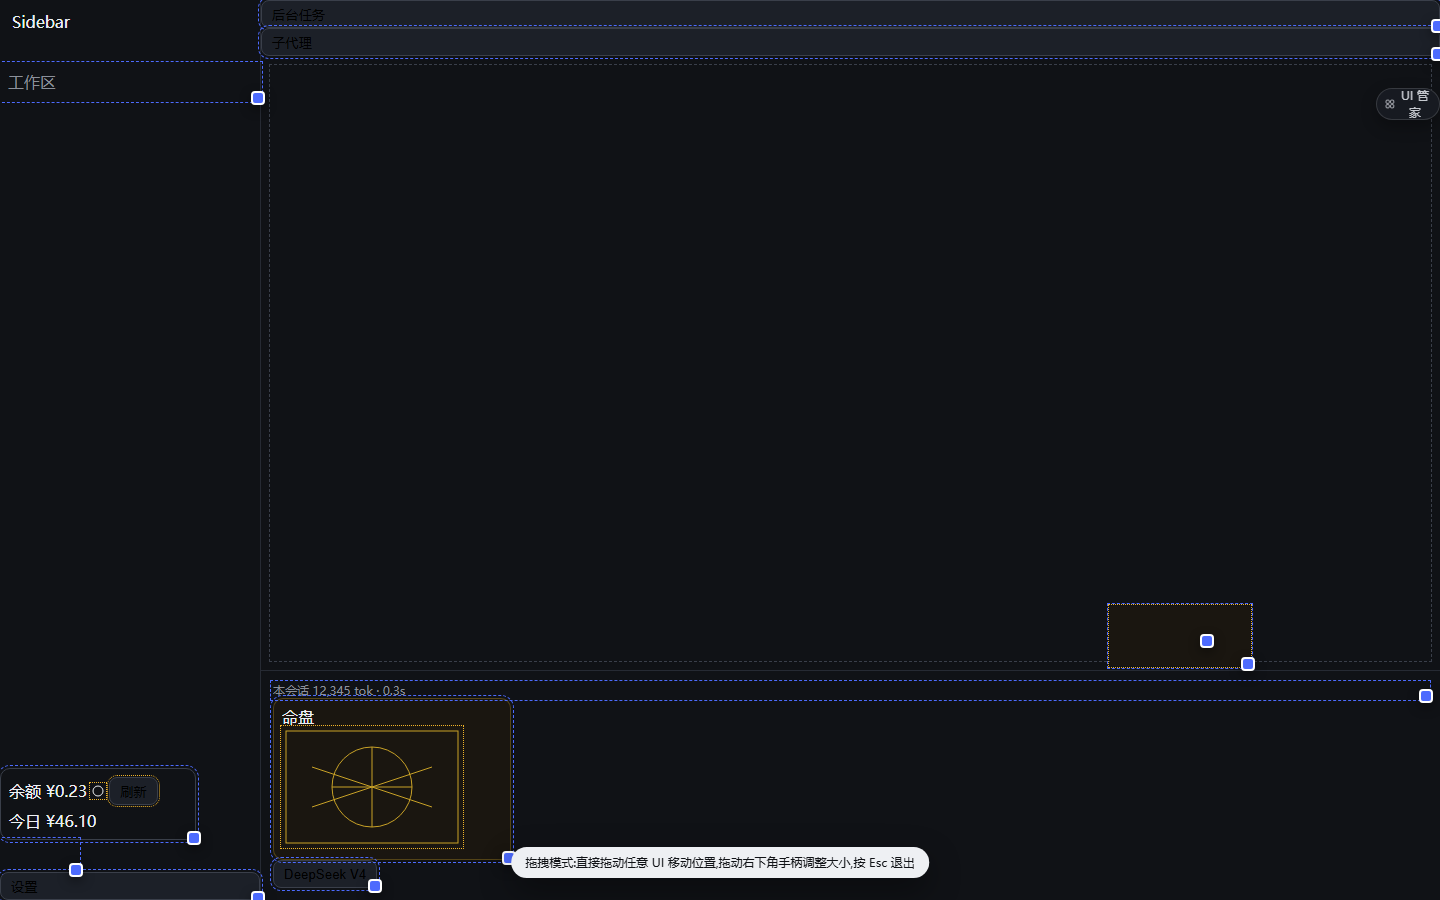
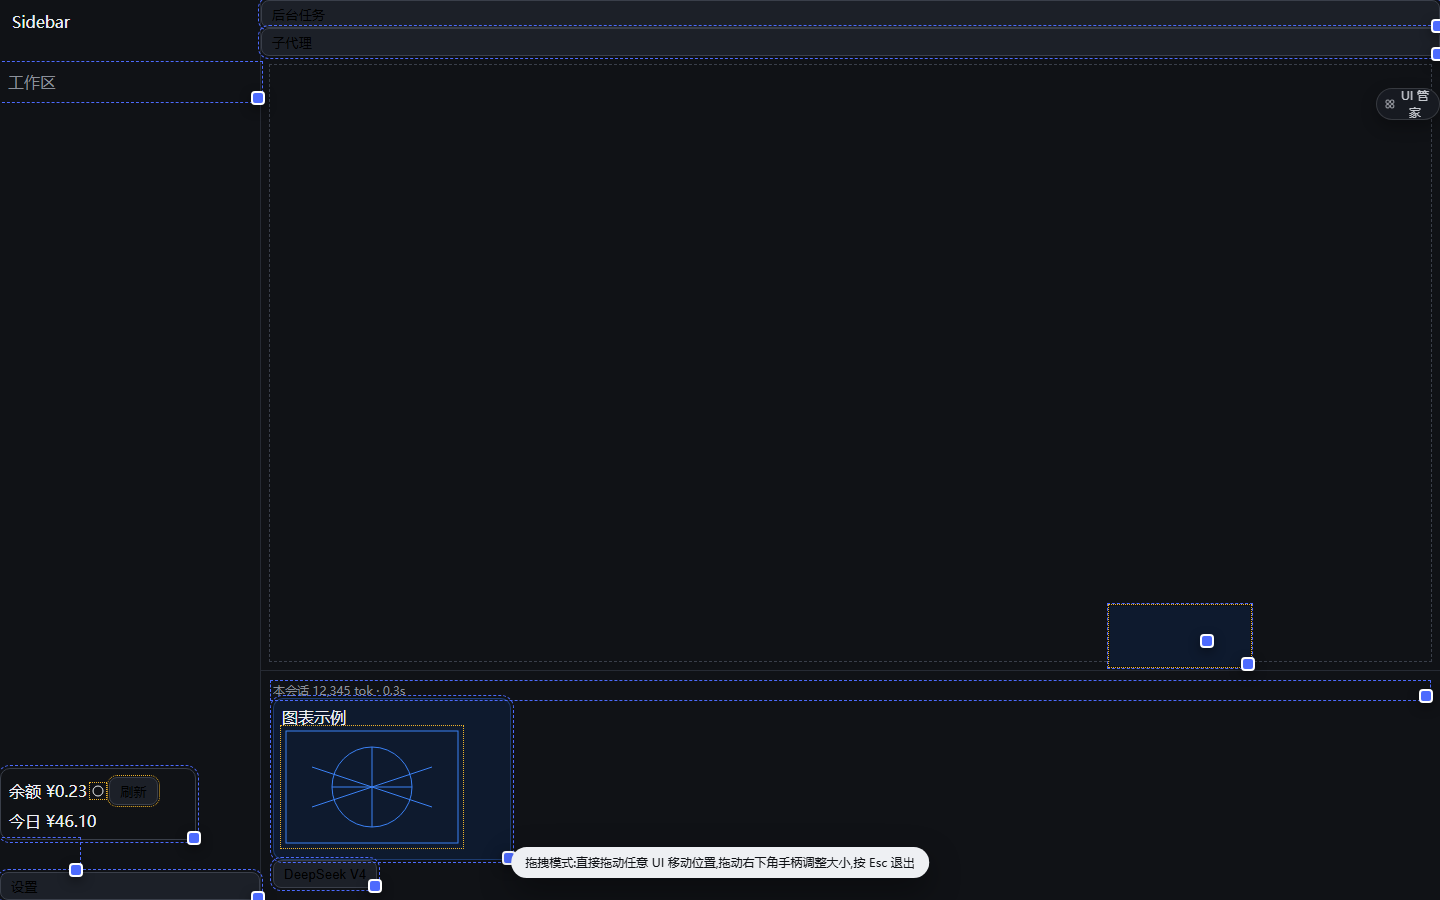
Regenerate showcase images: fix annotated screenshots, remove mingli demo widget

Changed region(s): [[0.1875, 0.7778, 0.375, 0.9644], [0.75, 0.6533, 0.875, 0.7467]]

diff --git a/test/mock.html b/test/mock.html
@@ -13,7 +13,7 @@
   .mock-button{display:inline-flex;align-items:center;gap:6px;height:28px;padding:0 10px;border:1px solid #3a3f4a;border-radius:8px;background:#1c2028}
   .cm-footer-stack{display:flex;flex-direction:column;gap:6px;width:178px;border:1px solid #3a3f4a;border-radius:10px;padding:8px}
   .cm-chip{display:inline-flex;gap:4px;align-items:center}
-  .mgl-chart{border:1px solid #c9a22755;border-radius:10px;padding:8px;background:#1a1610;width:220px}
+  .demo-chart{border:1px solid #3b82f655;border-radius:10px;padding:8px;background:#0e1a2e;width:220px}
   .stats-line{font-size:12px;color:#8b909a}
   [data-slot]{display:contents}
   #composer{border-top:1px solid #262a33;padding:12px}
@@ -58,13 +58,13 @@
     <div id="composer">
       <div data-slot="conversation.composer.dock">
         <div class="stats-line">本会话 12,345 tok · 0.3s</div>
-        <div class="mgl-chart" aria-label="命盘图表">
-          <div>命盘</div>
-          <svg width="180" height="120" viewBox="0 0 180 120" aria-label="命盘主图">
-            <rect x="4" y="4" width="172" height="112" fill="none" stroke="#c9a227"/>
-            <circle cx="90" cy="60" r="40" fill="none" stroke="#c9a227"/>
-            <path d="M90 20v80M50 60h80" stroke="#c9a227"/>
-            <path d="M30 40l120 40M30 80l120-40" stroke="#c9a227"/>
+        <div class="demo-chart" aria-label="示例图表">
+          <div>图表示例</div>
+          <svg width="180" height="120" viewBox="0 0 180 120" aria-label="图表主图">
+            <rect x="4" y="4" width="172" height="112" fill="none" stroke="#3b82f6"/>
+            <circle cx="90" cy="60" r="40" fill="none" stroke="#3b82f6"/>
+            <path d="M90 20v80M50 60h80" stroke="#3b82f6"/>
+            <path d="M30 40l120 40M30 80l120-40" stroke="#3b82f6"/>
           </svg>
         </div>
       </div>
@@ -76,8 +76,8 @@
   <button type="button" data-sticky-disclosure-control="" style="position:fixed;left:1128px;top:620px;z-index:15" class="dshSd_control">
     <span>全部收起</span><span>·2</span>
   </button>
-  <div data-dsh-mingli-widget="" style="position:fixed;left:1110px;top:606px;z-index:20" aria-label="命盘悬浮图">
-    <canvas width="140" height="60" style="display:block;background:#1a1610"></canvas>
+  <div data-demo-chart-widget="" style="position:fixed;left:1110px;top:606px;z-index:20" aria-label="图表悬浮图">
+    <canvas width="140" height="60" style="display:block;background:#0e1a2e"></canvas>
   </div>
 
 <script>

diff --git a/lib/client.js b/lib/client.js
@@ -58,7 +58,7 @@ window.__ModuleLoader__.load({
       "stickyDisclosure", "dshMingli", "mingli", "dshTaskboard", "taskboard",
       "dshSsh", "ssh", "cm", "costMeter", "dshLiveStats", "liveStats",
       "skinCenter", "gitGraph", "aion", "modlens", "modsearch", "notif",
-      "notification", "plugin", "pet",
+      "notification", "plugin", "pet", "demo",
     ];
 
     /** dataset prefix -> human plugin name (best-effort attribution). */

diff --git a/test/verify.py b/test/verify.py
@@ -80,7 +80,7 @@ def main():
         check("discovered slot roots", "slot:sidebar.footer.action@0" in keys and "slot:conversation.session.header.actions@0" in keys, str(keys))
         check("discovered composer dock chart", "slot:conversation.composer.dock@1" in keys, str(keys))
         check("discovered loose sticky pill", "loose:stickyDisclosureControl=1" in keys, str(keys))
-        check("discovered loose mingli widget", "loose:dshMingliWidget=1" in keys, str(keys))
+        check("discovered loose chart widget", "loose:demoChartWidget=1" in keys, str(keys))
         cost = next((r for r in roots if r["key"] == "slot:sidebar.footer.action@0"), None)
         check("cost meter root labelled", cost is not None and "今日费用" in cost["label"], str(cost))
         check("cost meter classified as plugin UI", cost is not None and cost["category"] == "plugin", str(cost))
@@ -124,16 +124,16 @@ def main():
 
         # --- 5. auto arrange --------------------------------------------------
         set_cfg("loose:stickyDisclosureControl=1", {"mode": "float", "x": 480, "y": 220})
-        set_cfg("loose:dshMingliWidget=1", {"mode": "float", "x": 500, "y": 230})
+        set_cfg("loose:demoChartWidget=1", {"mode": "float", "x": 500, "y": 230})
         page.wait_for_timeout(80)
         placed = eval_js("window.dshUiHub.arrange()")
         page.wait_for_timeout(350)
         sticky_rect = find("loose:stickyDisclosureControl=1")["rect"]
-        mingli_rect = find("loose:dshMingliWidget=1")["rect"]
-        ov = eval_js(overlap_js("loose:stickyDisclosureControl=1", "loose:dshMingliWidget=1"))
+        chart_rect = find("loose:demoChartWidget=1")["rect"]
+        ov = eval_js(overlap_js("loose:stickyDisclosureControl=1", "loose:demoChartWidget=1"))
         check("auto arrange moved items", placed >= 2, str(placed))
         check("auto arrange items do not overlap", ov is None, str(ov))
-        check("auto arrange right-aligns column", abs(sticky_rect["right"] - mingli_rect["right"]) <= 2, f"{sticky_rect} vs {mingli_rect}")
+        check("auto arrange right-aligns column", abs(sticky_rect["right"] - chart_rect["right"]) <= 2, f"{sticky_rect} vs {chart_rect}")
 
         # --- 6. strict collision avoidance ------------------------------------
         eval_js("window.dshUiHub.collisionMode('strict')")
